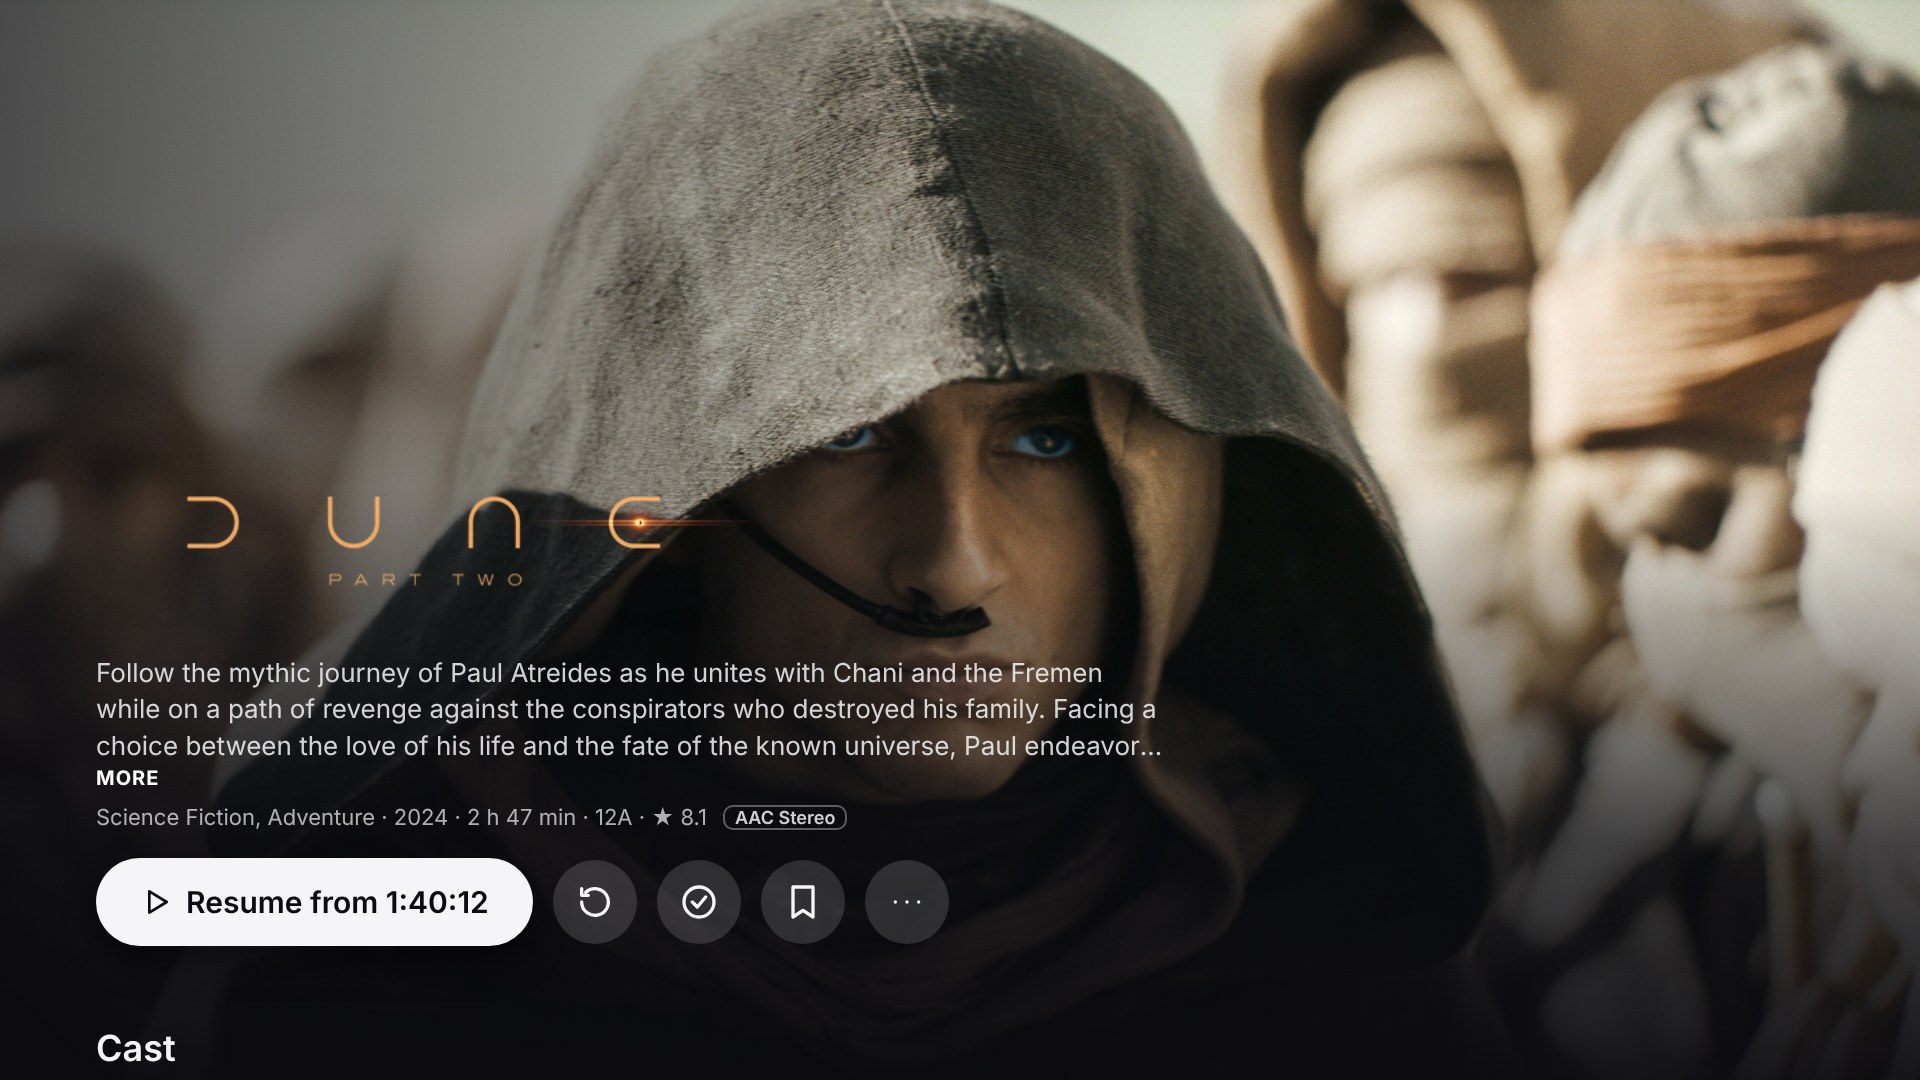
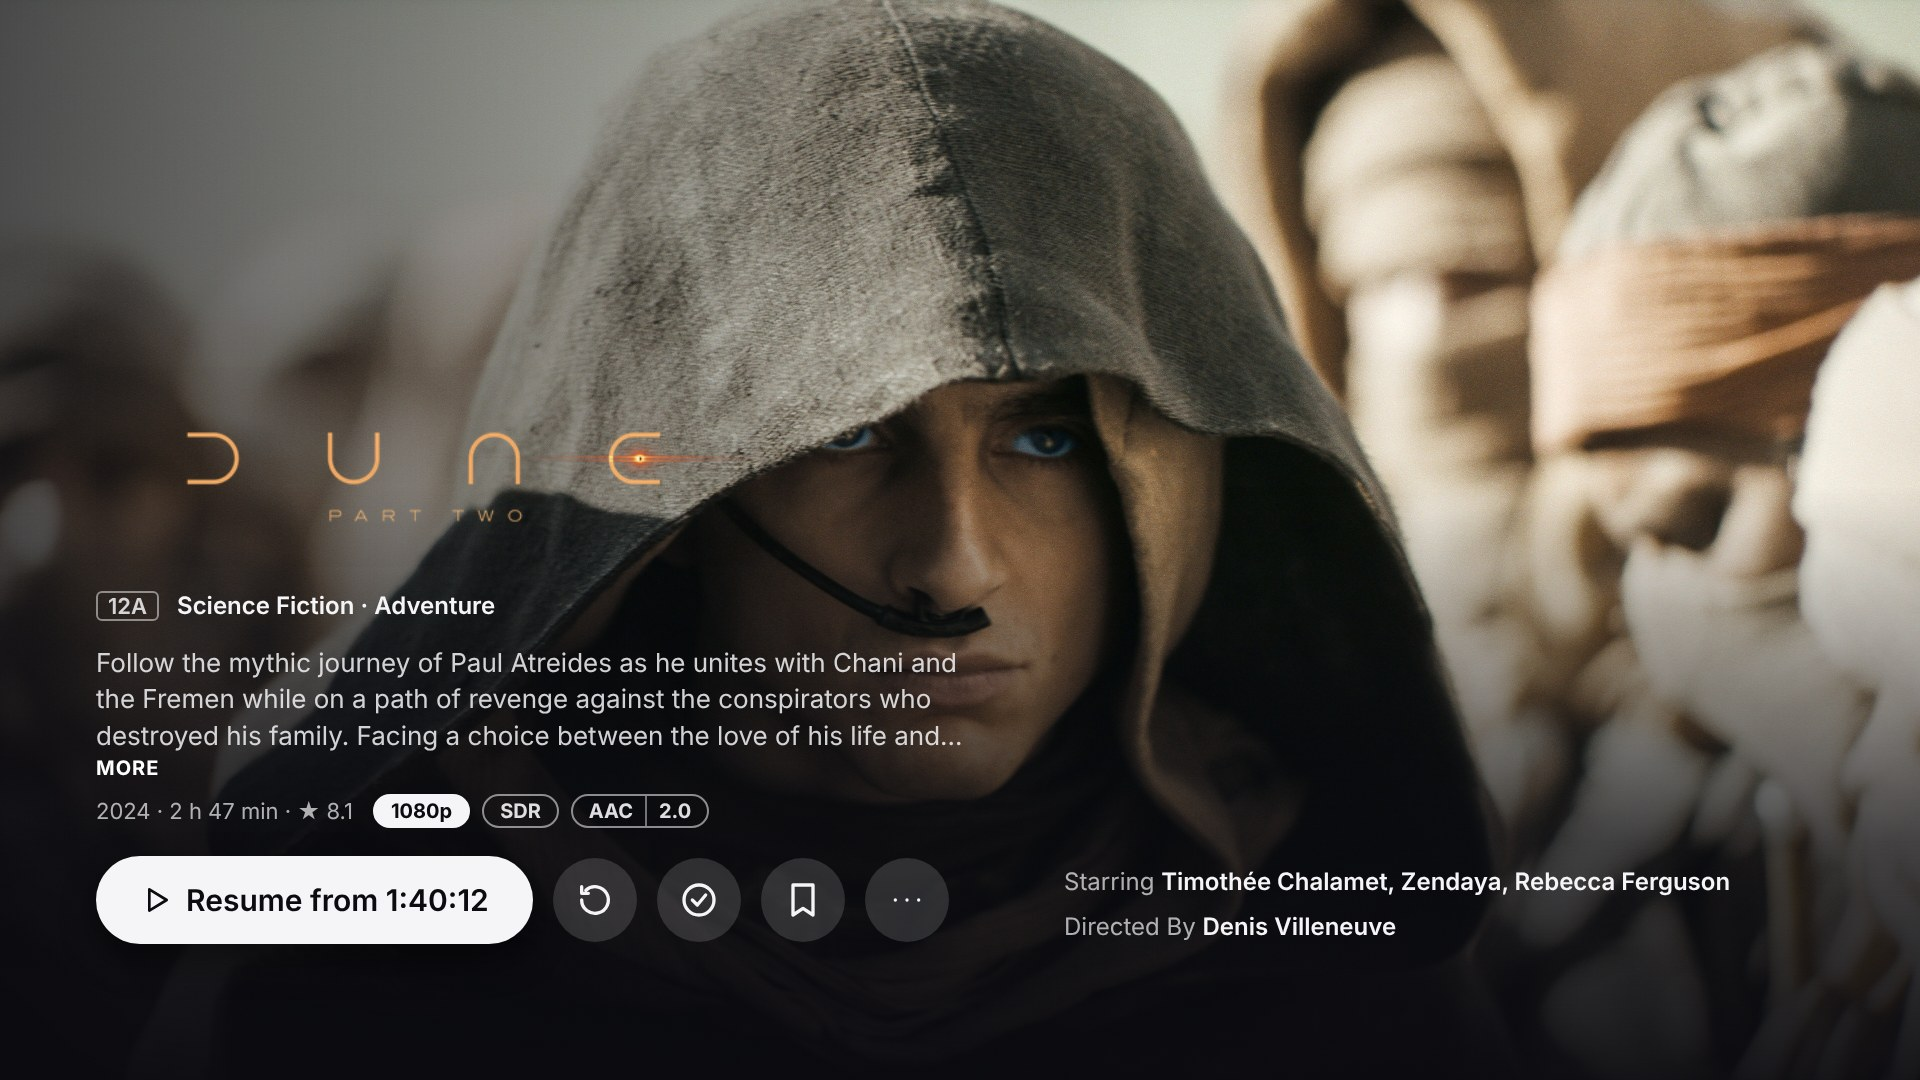
Retake the README pictures in the Android look
Home, film, show, library, search, settings, sign-in and profiles,
from main against the shared screenshot library. The library picture's
alt text now names its tabs.

diff --git a/docs/changes/2026-11-21-readme-screenshots.md b/docs/changes/2026-11-21-readme-screenshots.md
@@ -1,0 +1,23 @@
+# README pictures retaken in the Android look
+
+The README's pictures now show the screens from the two Android-look batches (#37, #38). They were
+taken from main in the browser build at 1920×1080, against the shared screenshot library.
+
+- Retaken: `home`, `film`, `show`, `library`, `search`, plus `settings`, `sign-in` and `profiles`, which
+  #38 also changed.
+- Kept: `watch-together`, since neither batch changed it.
+- The library picture now shows the Movies library on its Recommended tab, so its alt text
+  says that.
+
+## Checks
+
+- Looked at each picture; nothing was broken. No code changed, so `npm run check` wasn't run again.
+
+## Limits
+
+- Home's first-row captions sit at the bottom edge, as noted in #38.
+- The sign-in picture shows the browser build's `localhost:5173/link` address, as the old one did.
+
+## Logging
+
+Nothing: pictures and the README only.

diff --git a/README.md b/README.md
@@ -43,7 +43,7 @@ video, so files your TV can handle play as they are.
     <td width="50%"><img src="docs/screenshots/show.jpg" alt="Breaking Bad's page, with Resume S1 · E3 and the Season 1 tab"></td>
   </tr>
   <tr>
-    <td width="50%"><img src="docs/screenshots/library.jpg" alt="Browsing Movies, with Sort, Filters and the A–Z bar"></td>
+    <td width="50%"><img src="docs/screenshots/library.jpg" alt="Movies, with the Recommended, Library and Collections tabs"></td>
     <td width="50%"><img src="docs/screenshots/search.jpg" alt="Searching for Dune: both films and the Dune Collection"></td>
   </tr>
   <tr>
